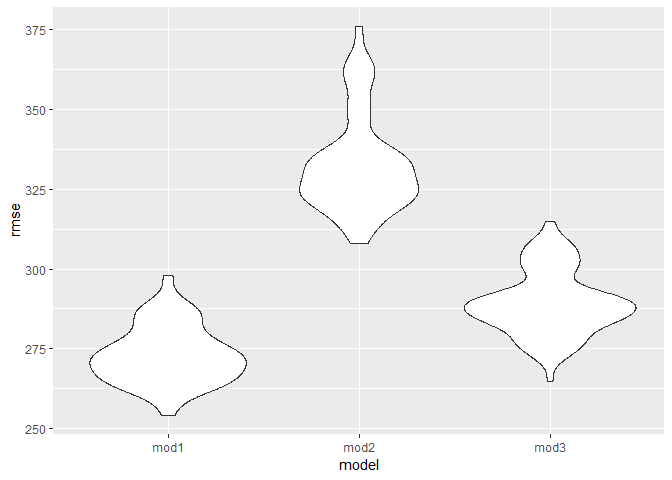
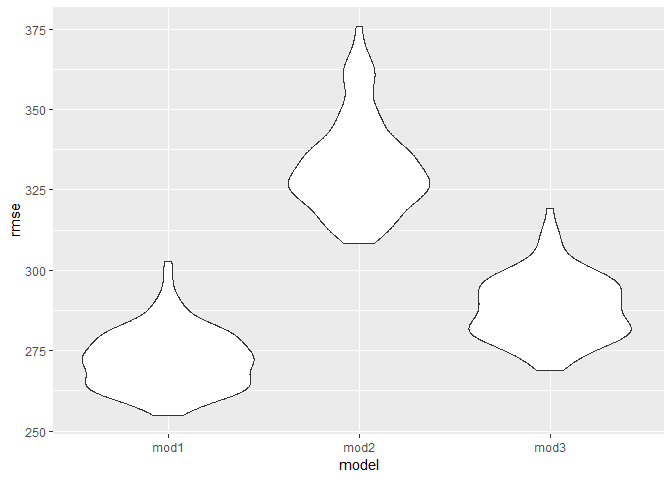
make graph for first problem

diff --git a/Homework6.md b/Homework6.md
@@ -79,19 +79,31 @@ data_Bal=data%>%
   filter(city_state=="Baltimore,MD")
 model=glm(ifsolved ~ victim_age + victim_race + victim_sex, data = data_Bal, family = binomial())
 fit_logistic=broom::tidy(model)
-fit_logistic%>%
-  mutate(OR=exp(estimate))%>%
-  mutate(upperCI=exp(estimate+qnorm(0.975)*std.error))%>%
-  mutate(lowerCI=exp(estimate-qnorm(0.975)*std.error))
+fit_logistic
 ```
 
-    ## # A tibble: 4 x 8
-    ##   term         estimate std.error statistic  p.value    OR upperCI lowerCI
-    ##   <chr>           <dbl>     <dbl>     <dbl>    <dbl> <dbl>   <dbl>   <dbl>
-    ## 1 (Intercept)   1.19      0.235        5.06 4.30e- 7 3.27    5.19    2.07 
-    ## 2 victim_age   -0.00699   0.00326     -2.14 3.22e- 2 0.993   0.999   0.987
-    ## 3 victim_race~ -0.820     0.175       -4.69 2.68e- 6 0.441   0.620   0.313
-    ## 4 victim_sexM~ -0.888     0.136       -6.53 6.80e-11 0.412   0.537   0.315
+    ## # A tibble: 4 x 5
+    ##   term                 estimate std.error statistic  p.value
+    ##   <chr>                   <dbl>     <dbl>     <dbl>    <dbl>
+    ## 1 (Intercept)           1.19      0.235        5.06 4.30e- 7
+    ## 2 victim_age           -0.00699   0.00326     -2.14 3.22e- 2
+    ## 3 victim_racenon-white -0.820     0.175       -4.69 2.68e- 6
+    ## 4 victim_sexMale       -0.888     0.136       -6.53 6.80e-11
+
+``` r
+fit_logistic%>%
+  mutate(OR=exp(estimate))%>%
+  
+  mutate(upperCI=exp(estimate+qnorm(0.975)*std.error))%>%
+  mutate(lowerCI=exp(estimate-qnorm(0.975)*std.error))%>%
+  filter(term=="victim_racenon-white")%>%
+  select(term,OR,upperCI,lowerCI)
+```
+
+    ## # A tibble: 1 x 4
+    ##   term                    OR upperCI lowerCI
+    ##   <chr>                <dbl>   <dbl>   <dbl>
+    ## 1 victim_racenon-white 0.441   0.620   0.313
 
 ``` r
 allcity=data%>%
@@ -105,24 +117,61 @@ allcity=data%>%
   mutate(city_OR=exp(estimate))%>%
   mutate(upperCI=exp(estimate+qnorm(0.975)*std.error))%>%
   mutate(lowerCI=exp(estimate-qnorm(0.975)*std.error))%>%
-  select(city_state,term,city_OR,upperCI,lowerCI)
-allcity
+  filter(term=="victim_racenon-white")%>%
+  select(city_state,city_OR,upperCI,lowerCI)
+ allcity%>%
+   knitr::kable(digits = 3)
 ```
 
-    ## # A tibble: 188 x 5
-    ##    city_state     term                 city_OR upperCI lowerCI
-    ##    <chr>          <chr>                  <dbl>   <dbl>   <dbl>
-    ##  1 Albuquerque,NM (Intercept)            3.62    7.76    1.69 
-    ##  2 Albuquerque,NM victim_age             0.976   0.990   0.962
-    ##  3 Albuquerque,NM victim_racenon-white   0.738   1.21    0.449
-    ##  4 Albuquerque,NM victim_sexMale         1.58    2.78    0.894
-    ##  5 Atlanta,GA     (Intercept)            3.17    6.43    1.56 
-    ##  6 Atlanta,GA     victim_age             0.988   0.997   0.979
-    ##  7 Atlanta,GA     victim_racenon-white   0.753   1.31    0.432
-    ##  8 Atlanta,GA     victim_sexMale         0.990   1.44    0.679
-    ##  9 Baltimore,MD   (Intercept)            3.27    5.19    2.07 
-    ## 10 Baltimore,MD   victim_age             0.993   0.999   0.987
-    ## # ... with 178 more rows
+| city\_state       |  city\_OR|  upperCI|  lowerCI|
+|:------------------|---------:|--------:|--------:|
+| Albuquerque,NM    |     0.738|    1.214|    0.449|
+| Atlanta,GA        |     0.753|    1.313|    0.432|
+| Baltimore,MD      |     0.441|    0.620|    0.313|
+| Baton Rouge,LA    |     0.668|    1.425|    0.313|
+| Birmingham,AL     |     1.039|    1.756|    0.615|
+| Boston,MA         |     0.127|    0.307|    0.052|
+| Buffalo,NY        |     0.390|    0.714|    0.213|
+| Charlotte,NC      |     0.558|    0.969|    0.321|
+| Chicago,IL        |     0.562|    0.733|    0.431|
+| Cincinnati,OH     |     0.318|    0.551|    0.184|
+| Columbus,OH       |     0.855|    1.152|    0.634|
+| Denver,CO         |     0.602|    1.009|    0.359|
+| Detroit,MI        |     0.651|    0.869|    0.488|
+| Durham,NC         |     1.003|    2.489|    0.404|
+| Fort Worth,TX     |     0.838|    1.266|    0.555|
+| Fresno,CA         |     0.448|    0.870|    0.231|
+| Houston,TX        |     0.873|    1.090|    0.699|
+| Indianapolis,IN   |     0.505|    0.667|    0.382|
+| Jacksonville,FL   |     0.658|    0.862|    0.502|
+| Las Vegas,NV      |     0.763|    0.982|    0.592|
+| Long Beach,CA     |     0.794|    1.626|    0.388|
+| Los Angeles,CA    |     0.666|    0.918|    0.483|
+| Louisville,KY     |     0.392|    0.593|    0.259|
+| Memphis,TN        |     0.782|    1.168|    0.524|
+| Miami,FL          |     0.577|    0.885|    0.376|
+| Milwaukee,wI      |     0.632|    0.991|    0.403|
+| Minneapolis,MN    |     0.646|    1.209|    0.345|
+| Nashville,TN      |     0.899|    1.236|    0.653|
+| New Orleans,LA    |     0.467|    0.738|    0.295|
+| New York,NY       |     0.531|    1.011|    0.279|
+| Oakland,CA        |     0.213|    0.435|    0.104|
+| Oklahoma City,OK  |     0.681|    0.971|    0.478|
+| Omaha,NE          |     0.169|    0.305|    0.094|
+| Philadelphia,PA   |     0.644|    0.852|    0.486|
+| Pittsburgh,PA     |     0.282|    0.493|    0.161|
+| Richmond,VA       |     0.447|    1.238|    0.162|
+| San Antonio,TX    |     0.689|    1.030|    0.461|
+| Sacramento,CA     |     0.781|    1.359|    0.449|
+| Savannah,GA       |     0.612|    1.302|    0.287|
+| San Bernardino,CA |     0.880|    1.972|    0.393|
+| San Diego,CA      |     0.483|    0.785|    0.298|
+| San Francisco,CA  |     0.458|    0.723|    0.290|
+| St. Louis,MO      |     0.577|    0.820|    0.406|
+| Stockton,CA       |     0.376|    0.719|    0.196|
+| Tampa,FL          |     1.159|    2.288|    0.587|
+| Tulsa,OK          |     0.602|    0.879|    0.413|
+| Washington,DC     |     0.514|    1.017|    0.260|
 
 ``` r
 allcity%>%
@@ -424,22 +473,31 @@ cv_df =
   mutate(rmse_mod1 = map2_dbl(mod1, test, ~rmse(model = .x, data = .y)),
          rmse_mod2 = map2_dbl(mod2, test, ~rmse(model = .x, data = .y)),
          rmse_mod3 = map2_dbl(mod3, test, ~rmse(model = .x, data = .y)))
+```
+
+    ## Warning in predict.lm(model, data): prediction from a rank-deficient fit
+    ## may be misleading
+
+    ## Warning in predict.lm(model, data): prediction from a rank-deficient fit
+    ## may be misleading
+
+``` r
 cv_df
 ```
 
     ## # A tibble: 100 x 9
     ##    train    test     .id   mod1  mod2  mod3  rmse_mod1 rmse_mod2 rmse_mod3
     ##    <list>   <list>   <chr> <lis> <lis> <lis>     <dbl>     <dbl>     <dbl>
-    ##  1 <tibble~ <tibble~ 001   <S3:~ <S3:~ <S3:~      290.      358.      305.
-    ##  2 <tibble~ <tibble~ 002   <S3:~ <S3:~ <S3:~      261.      311.      276.
-    ##  3 <tibble~ <tibble~ 003   <S3:~ <S3:~ <S3:~      267.      315.      285.
-    ##  4 <tibble~ <tibble~ 004   <S3:~ <S3:~ <S3:~      275.      317.      286.
-    ##  5 <tibble~ <tibble~ 005   <S3:~ <S3:~ <S3:~      269.      318.      282.
-    ##  6 <tibble~ <tibble~ 006   <S3:~ <S3:~ <S3:~      272.      325.      285.
-    ##  7 <tibble~ <tibble~ 007   <S3:~ <S3:~ <S3:~      275.      342.      291.
-    ##  8 <tibble~ <tibble~ 008   <S3:~ <S3:~ <S3:~      275.      337.      287.
-    ##  9 <tibble~ <tibble~ 009   <S3:~ <S3:~ <S3:~      270.      335.      285.
-    ## 10 <tibble~ <tibble~ 010   <S3:~ <S3:~ <S3:~      286.      364.      308.
+    ##  1 <tibble~ <tibble~ 001   <S3:~ <S3:~ <S3:~      268.      327.      285.
+    ##  2 <tibble~ <tibble~ 002   <S3:~ <S3:~ <S3:~      259.      324.      278.
+    ##  3 <tibble~ <tibble~ 003   <S3:~ <S3:~ <S3:~      267.      315.      283.
+    ##  4 <tibble~ <tibble~ 004   <S3:~ <S3:~ <S3:~      263.      320.      277.
+    ##  5 <tibble~ <tibble~ 005   <S3:~ <S3:~ <S3:~      262.      311.      278.
+    ##  6 <tibble~ <tibble~ 006   <S3:~ <S3:~ <S3:~      272.      336.      284.
+    ##  7 <tibble~ <tibble~ 007   <S3:~ <S3:~ <S3:~      263.      313.      276.
+    ##  8 <tibble~ <tibble~ 008   <S3:~ <S3:~ <S3:~      281.      327.      296.
+    ##  9 <tibble~ <tibble~ 009   <S3:~ <S3:~ <S3:~      276.      334.      289.
+    ## 10 <tibble~ <tibble~ 010   <S3:~ <S3:~ <S3:~      266.      331.      285.
     ## # ... with 90 more rows
 
 ``` r
